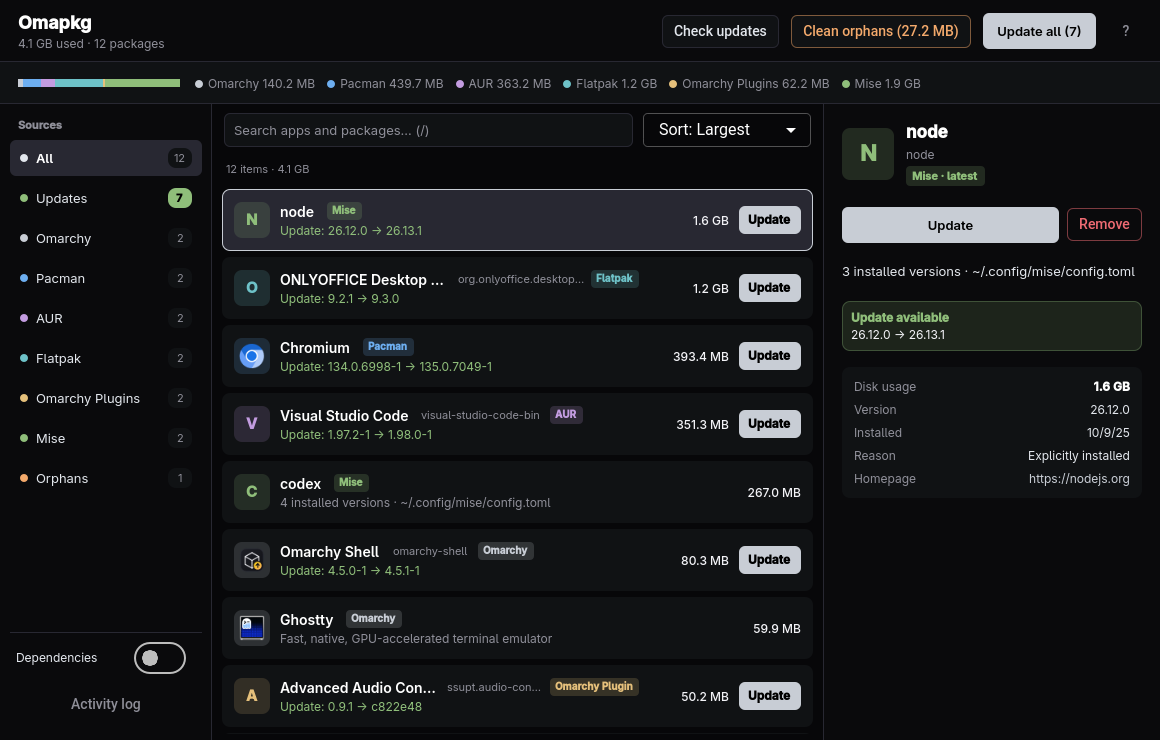
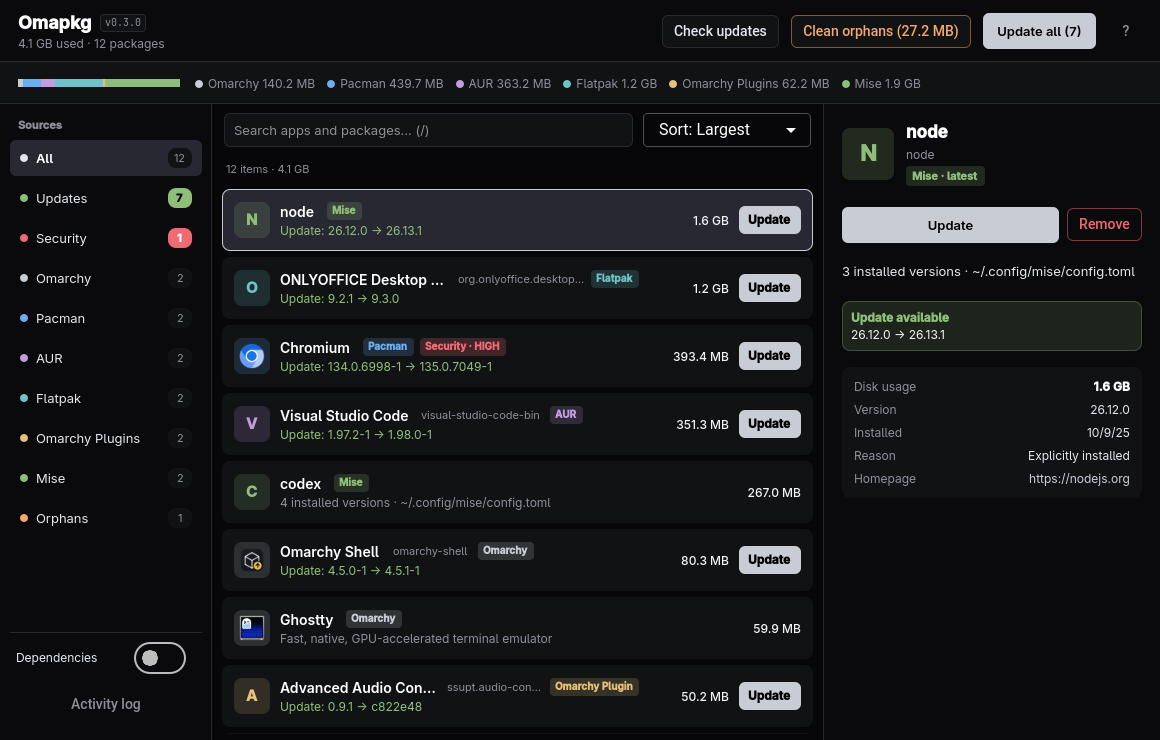
chore(release): bump version to 0.3.0 and update docs and preview

diff --git a/src/main.cpp b/src/main.cpp
@@ -23,16 +23,22 @@ int runCli(int argc, char *argv[], const QString &command) {
     qputenv("QT_QPA_PLATFORM", "offscreen");
     QGuiApplication app(argc, argv);
     app.setApplicationName("omapkg");
-    app.setApplicationVersion("0.2.0");
+    app.setApplicationVersion("0.3.0");
 
     bool asJson = false;
-    for (int i = 2; i < argc; ++i)
-        if (QString::fromLocal8Bit(argv[i]) == "--json")
+    bool notifySecurity = false;
+    for (int i = 2; i < argc; ++i) {
+        const QString arg = QString::fromLocal8Bit(argv[i]);
+        if (arg == "--json")
             asJson = true;
+        else if (arg == "--notify")
+            notifySecurity = true;
+    }
 
     Backend backend(false);
     const bool needUpdates = (command == "updates" || command == "summary");
-    const QJsonObject snap = backend.runCliSnapshot(needUpdates);
+    const bool needSecurity = (command == "security" || command == "summary");
+    const QJsonObject snap = backend.runCliSnapshot(needUpdates, needSecurity, notifySecurity);
 
     QTextStream out(stdout);
     if (command == "summary") {
@@ -43,6 +49,7 @@ int runCli(int argc, char *argv[], const QString &command) {
         } else {
             out << "Total packages: " << summary.value("totalPackages").toInt() << "\n"
                 << "Updates available: " << summary.value("updatesCount").toInt() << "\n"
+                << "Security alerts: " << summary.value("securityAlertsCount").toInt() << "\n"
                 << "Orphans: " << summary.value("orphanCount").toInt() << "\n"
                 << "Total bytes: " << summary.value("totalBytes").toVariant().toLongLong() << "\n";
         }
@@ -53,6 +60,8 @@ int runCli(int argc, char *argv[], const QString &command) {
     for (const auto &v : snap.value("packages").toArray()) {
         const QJsonObject obj = v.toObject();
         if (command == "updates" && !obj.value("hasUpdate").toBool())
+            continue;
+        if (command == "security" && !obj.value("hasSecurityAlert").toBool())
             continue;
         filtered.append(obj);
     }
@@ -67,6 +76,8 @@ int runCli(int argc, char *argv[], const QString &command) {
                 << o.value("version").toString();
             if (o.value("hasUpdate").toBool())
                 out << " -> " << o.value("availableVersion").toString();
+            if (o.value("hasSecurityAlert").toBool())
+                out << " [" << o.value("securitySeverity").toString().toUpper() << "]";
             out << "\t" << o.value("sizeBytes").toVariant().toLongLong() << " B\n";
         }
     }
@@ -78,18 +89,18 @@ int runCli(int argc, char *argv[], const QString &command) {
 int main(int argc, char *argv[]) {
     if (argc >= 2) {
         const QString cmd = QString::fromLocal8Bit(argv[1]);
-        if (cmd == "list" || cmd == "updates" || cmd == "summary")
+        if (cmd == "list" || cmd == "updates" || cmd == "security" || cmd == "summary")
             return runCli(argc, argv, cmd);
         if (cmd == "--help" || cmd == "-h") {
             QTextStream(stdout)
-                << "Usage: omapkg [open|list|updates|summary] [--json]\n";
+                << "Usage: omapkg [open|list|updates|security|summary] [--json] [--notify]\n";
             return 0;
         }
     }
 
     QGuiApplication app(argc, argv);
     app.setApplicationName("omapkg");
-    app.setApplicationVersion("0.2.0");
+    app.setApplicationVersion("0.3.0");
 
     // Matches the window to omapkg.desktop so the compositor
     // (Wayland app_id) and app launcher pick up the installed icon.

diff --git a/README.md b/README.md
@@ -6,13 +6,14 @@ Omarchy menu bar update indicator (`marciobbj.omapkg`) and native Qt Quick packa
 
 ## Features
 
-- **Omarchy menu bar widget (`marciobbj.omapkg`)** — checks installed sources for waiting updates, lights up with an accent badge when updates are available, and opens or focuses Omapkg on click.
+- **Omarchy menu bar widget (`marciobbj.omapkg`)** — checks installed sources for waiting updates and security alerts, lights up with an accent badge for updates or urgent red for security advisories, sends deduplicated desktop notifications (`notify-send`) when new vulnerabilities or compromised/retired plugins appear, and opens or focuses Omapkg on click.
+- **Security advisories & CVE alerts** — checks installed **Omarchy/Pacman** packages against the **Arch Linux Security Tracker**, **Omarchy Plugins** against the **Omarchy Plugin Marketplace** registry (retired/revoked plugins and failed security baselines), and **Mise** packages against **OSV.dev** (cached locally with `ETag` revalidation), surfacing alerts in a dedicated **Security** tab with clickable advisory links.
 - **Unified package sources** — Omarchy (`[omarchy]`), Pacman (`core`/`extra`/`multilib`/custom repos), AUR (`yay`), Flatpak, **Omarchy Plugins** (`~/.config/omarchy/plugins`), and **Mise** (`mise` dev tools) — automatically detected.
 - **Disk usage analytics** — stacked breakdown bar per source, per-app disk usage readout, sort by largest packages, and orphan disk reclaim summary.
-- **One-click maintenance** — check updates concurrently (`checkupdates`, `yay -Qua`, `flatpak remote-ls --updates`, `git ls-remote` for Omarchy Plugins, `mise outdated --json`), route Omarchy and Pacman system updates through Omarchy's full `omarchy-update` flow (avoiding partial upgrades), update Flatpak apps, Omarchy Plugins (`omarchy-plugin-update`), Mise tools (`mise upgrade`), and up-to-date AUR packages, inspect `Depends On` / `Required By`, launch desktop apps, remove packages safely with dependency warnings, and clean unused orphans.
+- **One-click maintenance** — check updates concurrently (`checkupdates`, `yay -Qua`, `flatpak remote-ls --updates`, `git ls-remote` for Omarchy Plugins, `mise outdated --json`), route Omarchy and Pacman system updates through Omarchy's full `omarchy-update` flow (avoiding partial upgrades), open Omarchy Plugin updates interactively in a floating terminal (`omarchy-plugin-update`) so you can review the `git diff` before applying changes, update Flatpak apps, Mise tools (`mise upgrade`), and up-to-date AUR packages, inspect `Depends On` / `Required By`, launch desktop apps, remove packages safely with dependency warnings, and clean unused orphans.
 - **Live Omarchy theme & Hyprland rounding** — watches `~/.local/state/omarchy/current/theme/colors.toml` and `hyprctl decoration:rounding` live.
 - **All 50 Omarchy 4.5 languages** — watches `~/.config/omarchy/language` live with CLDR plurals, localized disk sizes/dates/numbers, and RTL layout mirroring.
-- **Headless CLI** — scriptable `list`, `updates`, and `summary` commands with `--json` output.
+- **Headless CLI** — scriptable `list`, `updates`, `security`, and `summary` commands with `--json` output.
 
 ## Installation
 
@@ -74,8 +75,14 @@ If you installed the desktop app into `~/.local` manually instead of via `pacman
 ## Configuration & Permissions
 
 - Omapkg **never modifies or overwrites user configuration files** without explicit consent.
-- Update checks (`checkupdates`, `yay -Qua`, `flatpak remote-ls --updates`) are read-only and run unprivileged.
-- Package installation, updates, removals, and orphan cleanup are initiated only by explicit user action and authenticate through standard Polkit (`pkexec`) or `makepkg` prompts.
+- Update checks (`checkupdates`, `yay -Qua`, `flatpak remote-ls --updates`, `git ls-remote`, `mise outdated --json`) are read-only and run unprivileged.
+- Package installation, updates, removals, and orphan cleanup are initiated only by explicit user action and authenticate through standard Polkit (`pkexec`), `omarchy-update`, or `makepkg` prompts.
+- Omarchy Plugin updates open interactively in Omarchy's floating terminal (`omarchy-plugin-update`) so you always inspect the `git diff` and confirm before merging third-party shell code.
+- **Security advisory network requests (read-only, cached locally under `~/.cache/omapkg/`):**
+  - `https://security.archlinux.org/json` (GET with `ETag`, 1h TTL) — matches installed Omarchy/Pacman packages locally; no package list is uploaded.
+  - `https://raw.githubusercontent.com/omacom/omarchy-plugin-marketplace/main/registry.json` (GET with `ETag`, 6h TTL) — checks installed Omarchy Plugins locally for retired/revoked status or security baseline findings; no plugin list is uploaded.
+  - `https://api.osv.dev/v1/querybatch` and `/v1/vulns/<id>` (1h / 24h cache) — queries known vulnerabilities for installed Mise tools (sends only mapped Mise tool names and installed versions).
+  - Deduplication state for `notify-send` alerts is stored locally at `~/.local/state/omapkg/notified-advisories.json`. Security advisories are informational and are not a substitute for security audits or zero-day detection.
 
 ## Controls & Shortcuts
 
@@ -96,6 +103,7 @@ If you installed the desktop app into `~/.local` manually instead of via `pacman
 | `Delete` / `Backspace` | Remove selected package |
 | `Ctrl+Shift+O` | Clean unused orphan packages |
 | `1` – `9` | Switch source tabs (All, Updates, Omarchy, Pacman, AUR, Flatpak, Omarchy Plugins, Mise, Orphans) |
+| `S` | Show security alerts |
 | `L` | Toggle activity log drawer |
 | `?` | Show or hide keyboard shortcuts |
 | `Esc` | Close overlay or clear search |
@@ -106,6 +114,7 @@ If you installed the desktop app into `~/.local` manually instead of via `pacman
 ```sh
 omapkg summary --json
 omapkg updates --json
+omapkg security --json
 omapkg list --json
 ```
 
